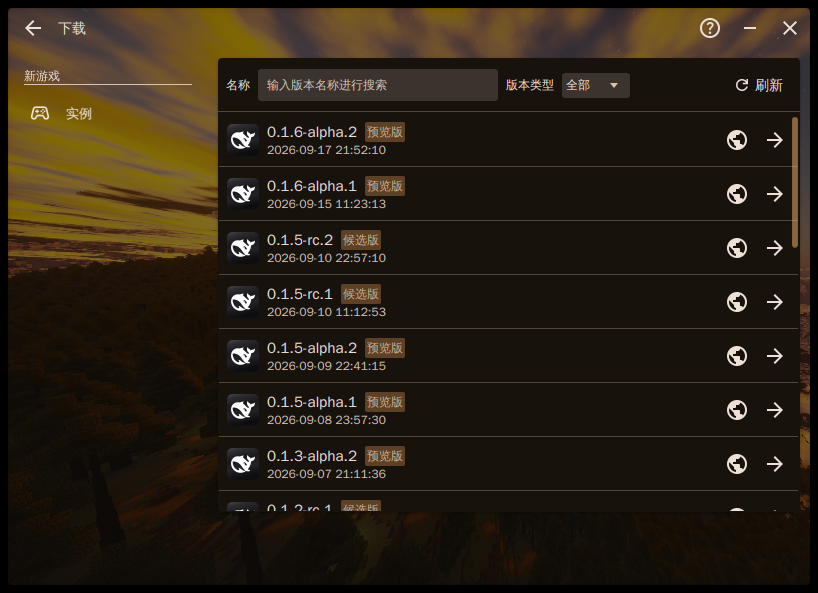
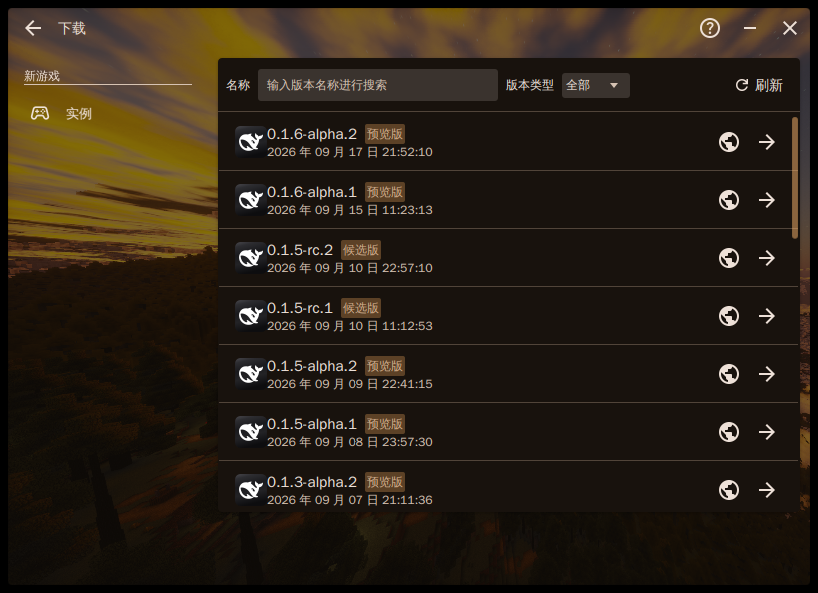
Stop overriding a rule of the original's, and compare stylesheets from now on
Diffing this project's stylesheet against the original's is the check I had not
been running, and it found a regression I introduced: a scripted edit meant to
delete a rule of my own had renamed one of the original's instead.

  original: .installer-item-wrapper .installer-item:list-item > .installer-item-status
  mine:     .installer-item-wrapper .installer-item:list-item > .installer-item-arrow

The original's rule is restored and my invented one is gone. The class it styled
was never a text arrow on a list item — that was my invention from before the
cards used the original's icon button — so nothing is lost.

The same pass found a second thing screenshots cannot show: my `.installer-item-card`
set a fixed height of 130 pixels, while the original derives a card's height from
its width in code. The two agreed closely enough to look right and would have
drifted apart the moment a card's width changed. PluginCard now binds its height
to its width the way InstallerCard already did, and the stylesheet no longer
states a height.

Every remaining difference in the stylesheet is an addition of this project's,
marked as such; the original has nothing this project lacks.

diff --git a/src/main/resources/assets/css/root.css b/src/main/resources/assets/css/root.css
@@ -412,12 +412,7 @@
     -fx-pref-width: 100px;
 }
 
-.installer-item-wrapper .installer-item:list-item > .installer-item-arrow {
-    -fx-font-size: 14px;
-    -fx-opacity: 0.7;
-}
-
-.installer-item-status {
+.installer-item-wrapper .installer-item:list-item > .installer-item-status {
     -fx-max-width: infinity;
 }
 
@@ -2026,7 +2021,6 @@
 /* HMCL-DSH: plugin cards in the install wizard. */
 .installer-item-card {
     -fx-pref-width: 180px;
-    -fx-pref-height: 130px;
 }
 
 .installer-item-card:selected > .installer-item-wrapper {

diff --git a/src/main/java/org/jackhuang/hmcl/ui/dsh/DownloadPage.java b/src/main/java/org/jackhuang/hmcl/ui/dsh/DownloadPage.java
@@ -268,17 +268,15 @@ public final class DownloadPage extends DecoratorAnimatedPage implements Decorat
         /// @param page the page the row's install action belongs to
         ReleaseCell(DownloadPage page) {
             this.page = page;
-            BorderPane root = new BorderPane();
+            // The original's row: a stack carrying the separator, an HBox inside
+            // it, and the whole thing inside a rippler. The margin is the part
+            // that shows — ten above and below against the eight this had, which
+            // is the four pixels by which its rows were shorter.
+            StackPane root = new StackPane();
             root.getStyleClass().add("md-list-cell");
-            root.setPadding(new Insets(8));
-
-            StackPane left = new StackPane(icon);
-            left.setPadding(new Insets(0, 8, 0, 0));
-            root.setLeft(left);
 
             content.setMouseTransparent(true);
             HBox.setHgrow(content, Priority.ALWAYS);
-            root.setCenter(content);
 
             HBox right = new HBox(8);
             right.setAlignment(Pos.CENTER_RIGHT);
@@ -297,7 +295,11 @@ public final class DownloadPage extends DecoratorAnimatedPage implements Decorat
                 }
             });
             right.getChildren().setAll(link, install);
-            root.setRight(right);
+
+            HBox row = new HBox(icon, content, right);
+            row.setAlignment(Pos.CENTER_LEFT);
+            StackPane.setMargin(row, new Insets(10, 16, 10, 16));
+            root.getChildren().setAll(row);
 
             this.graphic = new RipplerContainer(root);
             setGraphic(graphic);

diff --git a/src/main/java/org/jackhuang/hmcl/ui/dsh/install/PluginCard.java b/src/main/java/org/jackhuang/hmcl/ui/dsh/install/PluginCard.java
@@ -32,6 +32,7 @@ import javafx.scene.control.SkinBase;
 import javafx.scene.layout.StackPane;
 import javafx.scene.layout.VBox;
 import org.jackhuang.hmcl.dsh.DshPreset;
+import org.jackhuang.hmcl.ui.FXUtils;
 import org.jackhuang.hmcl.ui.SVG;
 import org.jackhuang.hmcl.ui.SVGContainer;
 import org.jackhuang.hmcl.ui.construct.RipplerContainer;
@@ -195,6 +196,11 @@ public final class PluginCard extends Control {
             wrapper.getChildren().add(new RipplerContainer(pane));
 
             getChildren().setAll(wrapper);
+
+            // The original ties a card's height to its width, so cards in a row
+            // keep one shape whatever their text does.
+            FXUtils.onWeakChangeAndOperate(control.widthProperty(), width ->
+                    FXUtils.setLimitHeight(pane, width.doubleValue() * 0.7));
         }
 
         /// Chooses an icon for a catalogue entry.

diff --git a/CONTRIBUTING.md b/CONTRIBUTING.md
@@ -181,6 +181,27 @@ im = Image.open('/tmp/shot.png')
 im.crop((x0, y0, x1, y1)).resize(((x1-x0)*2, (y1-y0)*2), Image.NEAREST).save('/tmp/zoom.png')
 ```
 
+### 定期 diff 样式表，不要只看截图
+
+`root.css` 是从原版整份移植的，所以**任何差异都是我引入的**：
+
+```bash
+diff /home/thf/Programme/Git/HMCL/HMCL/src/main/resources/assets/css/root.css \
+     src/main/resources/assets/css/root.css
+```
+
+原版有而我缺失的规则（`diff` 输出里 `^<` 的行）**一律是 bug**。
+我就是这样才发现自己早先把原版的一条规则**改名**了：
+
+```css
+/* 原版 */
+.installer-item-wrapper .installer-item:list-item > .installer-item-status { -fx-max-width: infinity; }
+/* 被我改成了自造的 arrow 规则，原规则丢失，只剩一条范围过宽的全局规则 */
+```
+
+截图看不出来 —— 受影响的只是特定作用域下的一个属性。
+**每次改 CSS 后跑一次这个 diff，比对着截图找差异快得多。**
+
 ### 文本替换要确认改的是哪一处
 
 用脚本批量替换时，**同一个字符串在文件里往往出现多次**。
